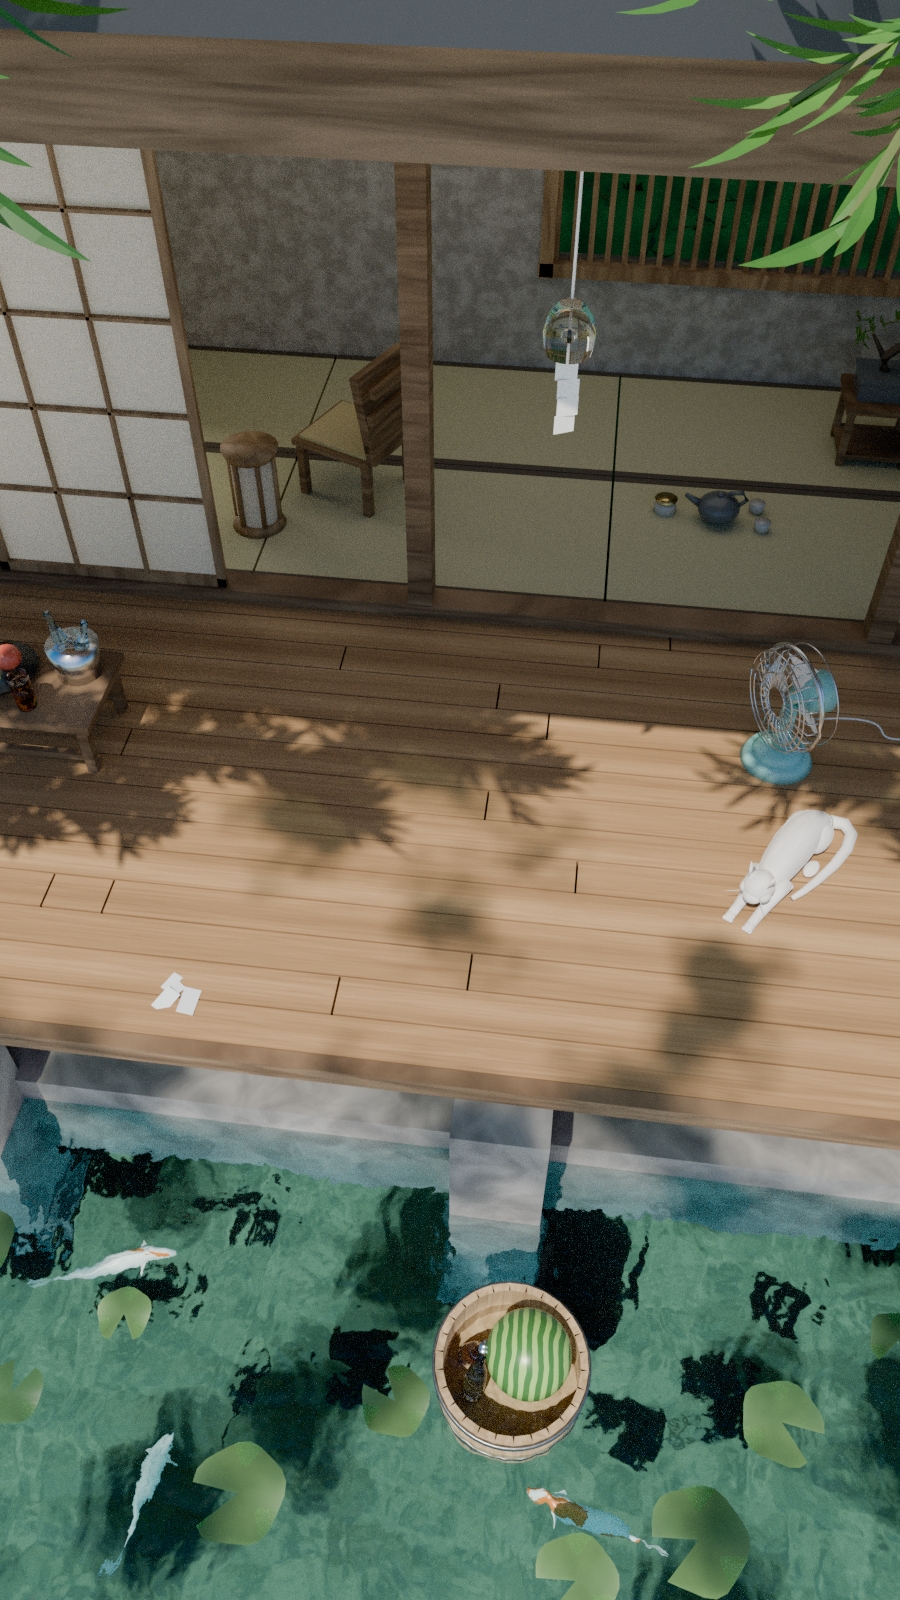
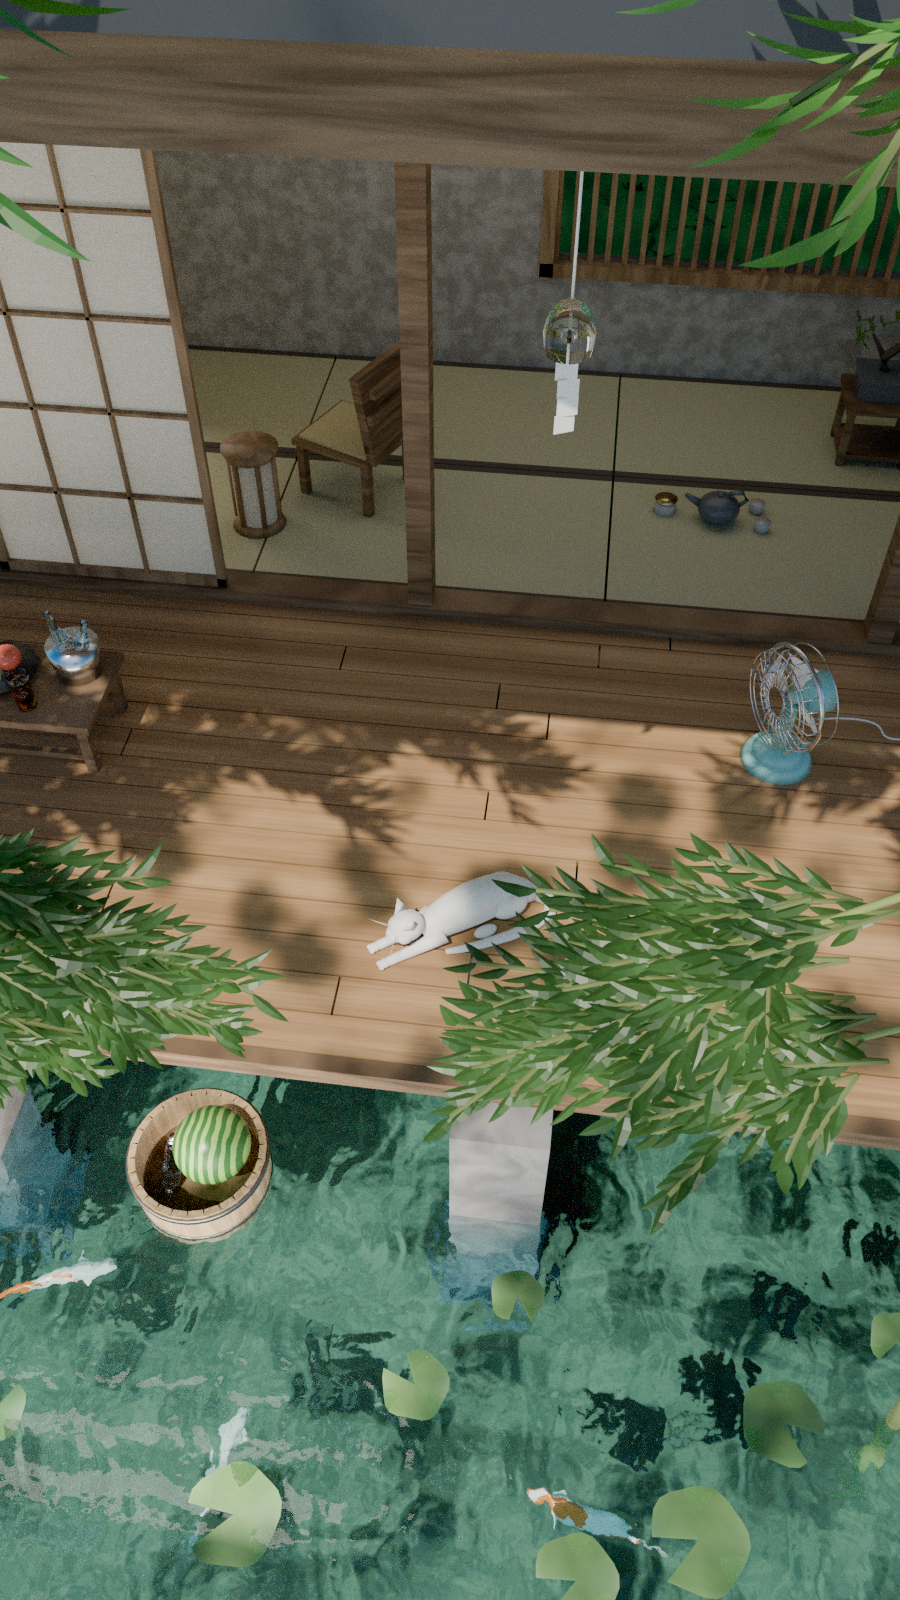
Record why a rim light cannot separate her from the deck
Measuring the finished frame contradicted my own read of it: nothing clips
anywhere (max luminance 251, zero clipped pixels), so what looked like
overexposed skin was never exposure. Her skin and the sunlit boards simply sit
in the same luminance band -- face 205, deck 202 on a 0-255 median -- and a
subject that shares its background's value reads flat however well exposed it
is.

A rim light is the usual answer and it does not work in this set, which is
worth writing down so it is not tried again. The boards fill the space between
her and the house, so any light placed to graze her edge lights them too:
placed high and broad it raised her and the deck together and left the gap at
nil, and placed low and tight behind her it put the deck ahead of her face,
224 against 216. Removed rather than left in, since it cost brightness and
bought nothing. What separates her here is colour -- the yellow cardigan and
the blue floral -- not value.

Scene renders and script move with the set's own last pass, which put a koi
under the water in the lower part of the frame.

Claude-Session: https://claude.ai/code/session_01KdiKTGuNFyVJk3TLR4SJ8Q

diff --git a/CharacterPrototype/tools/blender_scene.py b/CharacterPrototype/tools/blender_scene.py
@@ -579,11 +579,67 @@ def build_materials():
     nt.links.new(addv.outputs[0], nt.nodes["Material Output"].inputs["Volume"])
     M["water"] = m
 
-    # --- Pond bed: dark silty green-brown.
+    # --- Pond bed: dark silty green-brown, with a caustic web laid over it.
+    # Cycles will not give us real caustics here (refractive caustics are off,
+    # because through a rippled surface they are a firefly factory), and
+    # without them the pond reads as flat green depth rather than as water
+    # with light moving in it. A Voronoi distance-to-edge web, brightened and
+    # very slightly emissive so it survives the volume absorption on the way
+    # back up, is the cheap stand-in -- and it is the single biggest thing
+    # that makes the water look lit rather than tinted.
     m = make_mat("EngawaPondBed", rough=0.95, spec=0.05)
-    add_noise_color(m, (0.150, 0.180, 0.120), (0.320, 0.330, 0.215),
-                    scale=(1, 1, 1), noise_scale=11.0, detail=8.0,
-                    ramp_lo=0.35, ramp_hi=0.70)
+    nt, _, _ = add_noise_color(m, (0.150, 0.180, 0.120), (0.320, 0.330, 0.215),
+                               scale=(1, 1, 1), noise_scale=11.0, detail=8.0,
+                               ramp_lo=0.35, ramp_hi=0.70)
+    bsdf = nt.nodes["Principled BSDF"]
+    base_link = bsdf.inputs["Base Color"].links[0]
+    silt = base_link.from_socket
+    tc = nt.nodes.new("ShaderNodeTexCoord")
+    tc.location = (-1100, -600)
+    cmap = nt.nodes.new("ShaderNodeMapping")
+    cmap.location = (-900, -600)
+    cmap.inputs["Scale"].default_value = (1.0, 1.0, 1.0)
+    nt.links.new(tc.outputs["Object"], cmap.inputs["Vector"])
+    vor = nt.nodes.new("ShaderNodeTexVoronoi")
+    vor.location = (-700, -600)
+    vor.feature = "DISTANCE_TO_EDGE"
+    vor.inputs["Scale"].default_value = 3.4
+    if "Randomness" in vor.inputs:
+        vor.inputs["Randomness"].default_value = 1.0
+    nt.links.new(cmap.outputs["Vector"], vor.inputs["Vector"])
+    # a second, finer web so the pattern is not one regular size
+    vor2 = nt.nodes.new("ShaderNodeTexVoronoi")
+    vor2.location = (-700, -800)
+    vor2.feature = "DISTANCE_TO_EDGE"
+    vor2.inputs["Scale"].default_value = 7.5
+    if "Randomness" in vor2.inputs:
+        vor2.inputs["Randomness"].default_value = 1.0
+    nt.links.new(cmap.outputs["Vector"], vor2.inputs["Vector"])
+    cmin = nt.nodes.new("ShaderNodeMath")
+    cmin.operation = "MINIMUM"
+    cmin.location = (-500, -700)
+    nt.links.new(vor.outputs["Distance"], cmin.inputs[0])
+    nt.links.new(vor2.outputs["Distance"], cmin.inputs[1])
+    cramp = nt.nodes.new("ShaderNodeValToRGB")
+    cramp.location = (-320, -700)
+    cramp.color_ramp.elements[0].position = 0.0
+    cramp.color_ramp.elements[0].color = (1.0, 1.0, 0.92, 1.0)
+    cramp.color_ramp.elements[1].position = 0.055
+    cramp.color_ramp.elements[1].color = (0.0, 0.0, 0.0, 1.0)
+    nt.links.new(cmin.outputs["Value"], cramp.inputs["Fac"])
+    cadd = nt.nodes.new("ShaderNodeMixRGB")
+    cadd.blend_type = "ADD"
+    cadd.location = (-120, -500)
+    cadd.inputs["Fac"].default_value = 0.50
+    nt.links.new(silt, cadd.inputs["Color1"])
+    nt.links.new(cramp.outputs["Color"], cadd.inputs["Color2"])
+    nt.links.new(cadd.outputs["Color"], bsdf.inputs["Base Color"])
+    for key in ("Emission Color", "Emission"):
+        if key in bsdf.inputs:
+            nt.links.new(cramp.outputs["Color"], bsdf.inputs[key])
+            break
+    if "Emission Strength" in bsdf.inputs:
+        bsdf.inputs["Emission Strength"].default_value = 0.22
     M["pondbed"] = m
 
     # --- Koi.
@@ -2025,14 +2081,27 @@ def build_cat():
 
     # --- head, muzzle, cheeks
     head_c = Vector((-0.262, 0.004, 0.119))
+    # neck: without it the skull sat straight on the shoulders and the whole
+    # animal read as one loaf from above
+    bmesh_icosphere(bm, 3, 1.0,
+                    Matrix.Translation(Vector((-0.218, 0.003, 0.100)))
+                    @ Matrix.Diagonal(Vector((0.046, 0.048, 0.046, 1.0))))
+    # skull: narrower and a touch taller, so the ears sit on a dome
     bmesh_icosphere(bm, 3, 1.0, Matrix.Translation(head_c)
-                    @ Matrix.Diagonal(Vector((0.066, 0.058, 0.056, 1.0))))
-    bmesh_icosphere(bm, 3, 1.0, Matrix.Translation(head_c + Vector((-0.044, 0, -0.017)))
-                    @ Matrix.Diagonal(Vector((0.035, 0.037, 0.026, 1.0))))
+                    @ Matrix.Diagonal(Vector((0.060, 0.055, 0.057, 1.0))))
+    # brow ridge over the closed eyes
+    bmesh_icosphere(bm, 2, 1.0,
+                    Matrix.Translation(head_c + Vector((-0.034, 0.0, 0.013)))
+                    @ Matrix.Diagonal(Vector((0.029, 0.043, 0.025, 1.0))))
+    # muzzle + chin, shorter and narrower than the old blunt snout
+    bmesh_icosphere(bm, 3, 1.0, Matrix.Translation(head_c + Vector((-0.046, 0, -0.021)))
+                    @ Matrix.Diagonal(Vector((0.029, 0.032, 0.023, 1.0))))
+    bmesh_icosphere(bm, 2, 1.0, Matrix.Translation(head_c + Vector((-0.038, 0, -0.038)))
+                    @ Matrix.Diagonal(Vector((0.022, 0.024, 0.013, 1.0))))
     for s in (-1, 1):
         bmesh_icosphere(bm, 2, 1.0,
-                        Matrix.Translation(head_c + Vector((-0.024, s * 0.037, -0.010)))
-                        @ Matrix.Diagonal(Vector((0.030, 0.024, 0.026, 1.0))))
+                        Matrix.Translation(head_c + Vector((-0.020, s * 0.040, -0.016)))
+                        @ Matrix.Diagonal(Vector((0.030, 0.025, 0.024, 1.0))))
     # ears: solid pyramids standing proud of the skull, canted outward
     for s in (-1, 1):
         bc = head_c + Vector((0.000, s * 0.036, 0.030))
@@ -2048,21 +2117,26 @@ def build_cat():
 
     # --- front legs stretched out past the nose, paws relaxed
     for s in (-1, 1):
-        leg = [Vector((-0.140, s * 0.050, 0.060)),
-               Vector((-0.200, s * 0.046, 0.040)),
-               Vector((-0.268, s * 0.042, 0.024)),
-               Vector((-0.330, s * 0.040, 0.019)),
-               Vector((-0.362, s * 0.040, 0.018))]
-        loft_tube(bm, leg, [(0.037, 0.036), (0.029, 0.028), (0.022, 0.021),
-                            (0.019, 0.017), (0.018, 0.016)], segments=10)
-        bmesh_icosphere(bm, 3, 1.0,
-                        Matrix.Translation(Vector((-0.373, s * 0.040, 0.017)))
-                        @ Matrix.Diagonal(Vector((0.022, 0.019, 0.015, 1.0))))
-        for t in (-1, 0, 1):          # toes
+        # shoulder -> elbow -> wrist -> paw, forearms angling in so the paws
+        # lie almost together, the way a cat folds them when loafing
+        leg = [Vector((-0.132, s * 0.055, 0.070)),
+               Vector((-0.186, s * 0.052, 0.046)),
+               Vector((-0.244, s * 0.046, 0.026)),
+               Vector((-0.306, s * 0.039, 0.020)),
+               Vector((-0.352, s * 0.034, 0.018))]
+        loft_tube(bm, leg, [(0.040, 0.040), (0.032, 0.031), (0.024, 0.022),
+                            (0.020, 0.018), (0.019, 0.017)], segments=10)
+        bmesh_icosphere(bm, 3, 1.0,          # elbow against the ribcage
+                        Matrix.Translation(Vector((-0.178, s * 0.056, 0.050)))
+                        @ Matrix.Diagonal(Vector((0.034, 0.026, 0.032, 1.0))))
+        bmesh_icosphere(bm, 3, 1.0,          # paw, broader than the forearm
+                        Matrix.Translation(Vector((-0.370, s * 0.033, 0.017)))
+                        @ Matrix.Diagonal(Vector((0.026, 0.022, 0.016, 1.0))))
+        for t in (-1, 0, 1):                 # toes
             bmesh_icosphere(bm, 2, 1.0,
-                            Matrix.Translation(Vector((-0.390, s * 0.040 + t * 0.012,
-                                                       0.014)))
-                            @ Matrix.Diagonal(Vector((0.011, 0.009, 0.008, 1.0))))
+                            Matrix.Translation(Vector((-0.390, s * 0.033 + t * 0.0125,
+                                                       0.0145)))
+                            @ Matrix.Diagonal(Vector((0.013, 0.0098, 0.0090, 1.0))))
 
     # --- haunches, and one back foot tucked under the near flank
     for s in (-1, 1):
@@ -2088,7 +2162,7 @@ def build_cat():
     # --- pink nose and inner ears
     bm = bmesh.new()
     bmesh_icosphere(bm, 2, 1.0,
-                    Matrix.Translation(head_c + Vector((-0.068, 0.0, -0.013)))
+                    Matrix.Translation(head_c + Vector((-0.070, 0.0, -0.017)))
                     @ Matrix.Diagonal(Vector((0.008, 0.011, 0.007, 1.0))))
     for s in (-1, 1):
         bc = head_c + Vector((0.000, s * 0.040, 0.032))
@@ -2103,7 +2177,7 @@ def build_cat():
     # --- shut eyes: two shallow creased slits
     bm = bmesh.new()
     for s in (-1, 1):
-        c = head_c + Vector((-0.044, s * 0.031, 0.010))
+        c = head_c + Vector((-0.041, s * 0.030, 0.006))
         for i in range(6):
             u0, u1 = i / 6, (i + 1) / 6
             def arc(u):
@@ -2122,7 +2196,7 @@ def build_cat():
     bm = bmesh.new()
     for s in (-1, 1):
         for k in range(2):
-            b = head_c + Vector((-0.052, s * 0.024, -0.004 + k * 0.009))
+            b = head_c + Vector((-0.054, s * 0.022, -0.010 + k * 0.008))
             e = b + Vector((-0.050 - k * 0.008, s * (0.056 + k * 0.010),
                             0.006 - k * 0.010))
             loft_tube(bm, [b, (b + e) / 2, e],

diff --git a/CharacterPrototype/tools/blender_compose.py b/CharacterPrototype/tools/blender_compose.py
@@ -357,6 +357,16 @@ def report_joints(arm):
         log(f"  {name:<20} ({w.x:+.2f}, {w.y:+.2f}, {w.z:+.2f})")
 
 
+# A rim light behind her was tried here and removed. Her skin and the sunlit
+# boards sit in the same luminance band (face 205, deck 202 on a 0-255 median,
+# with nothing clipping anywhere), so the frame's flatness is a separation
+# problem rather than an exposure one -- but a rim cannot fix it in this set.
+# The boards fill the space between her and the house, so any light placed to
+# graze her edge lights them too: high and broad it raised both together, and
+# low and tight behind her it put the deck AHEAD of her face (224 against 216).
+# Her colours are what separate her here, not her value.
+
+
 def add_camera(loc, aim, lens):
     cam_data = bpy.data.cameras.new("Camera")
     cam_data.lens = lens
